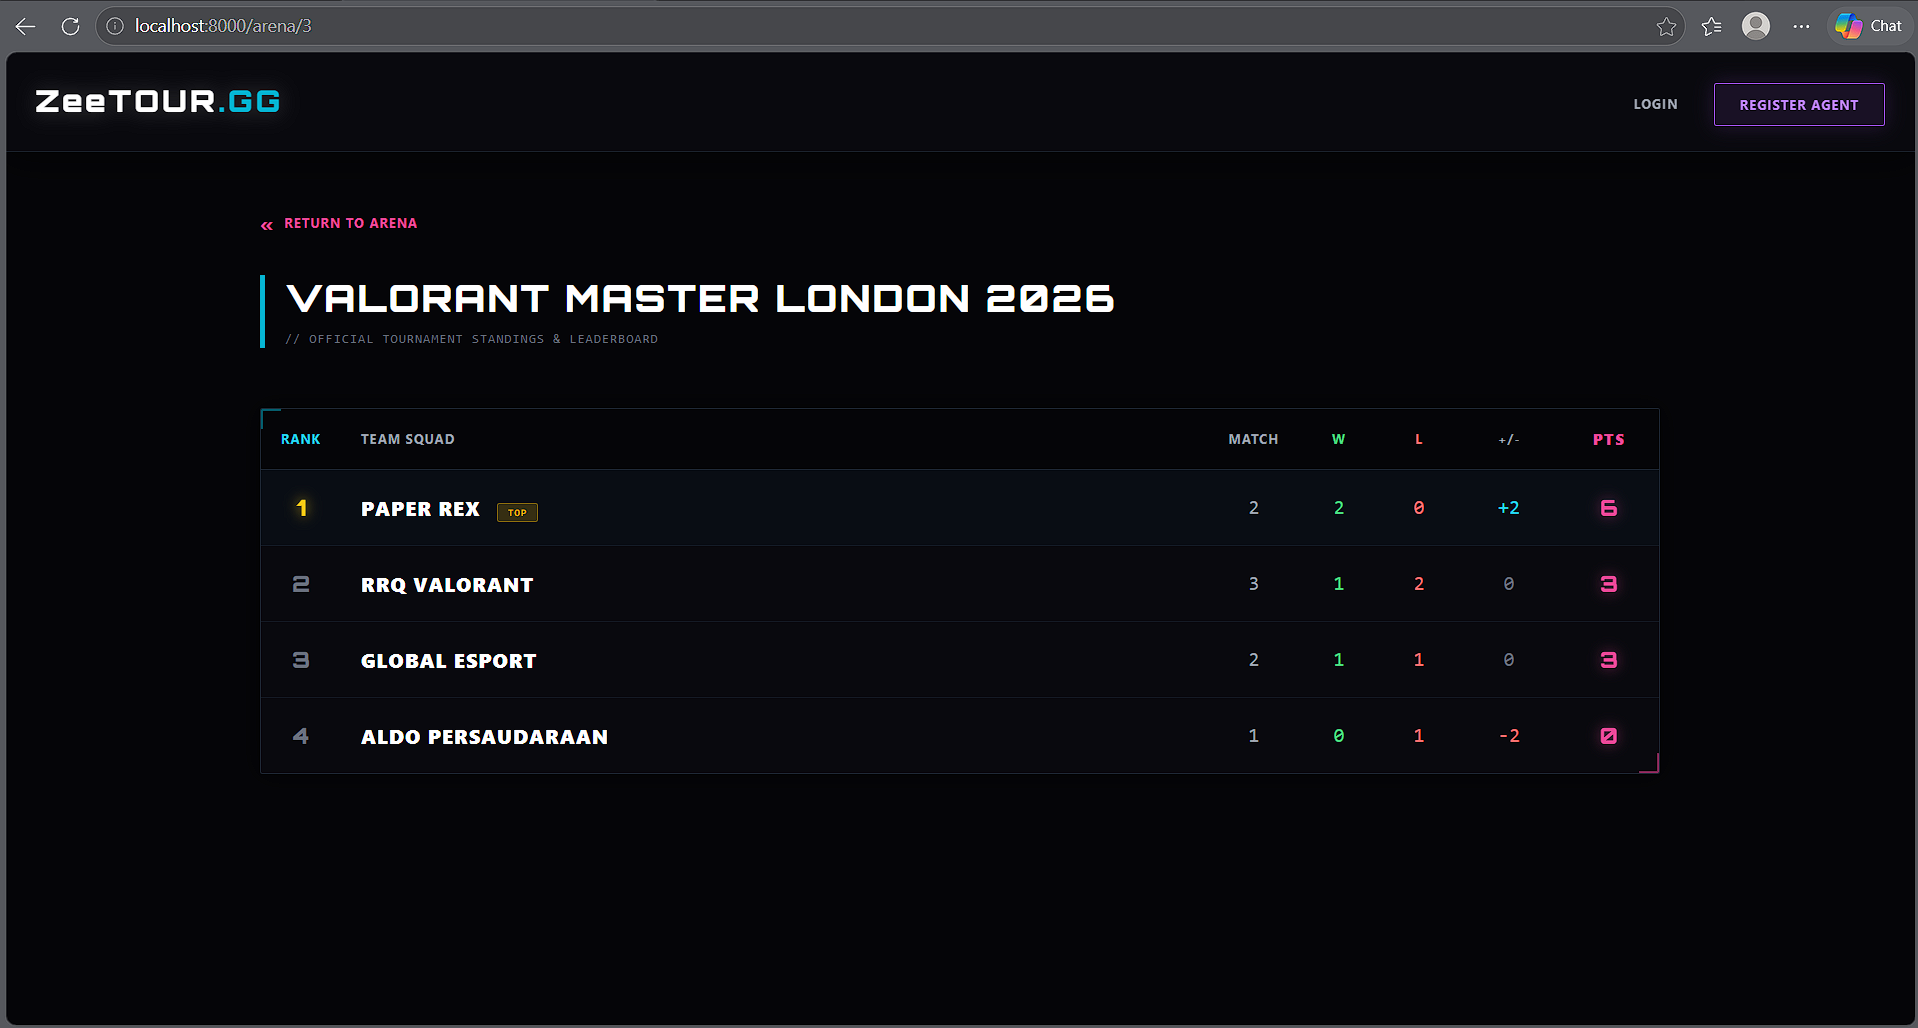
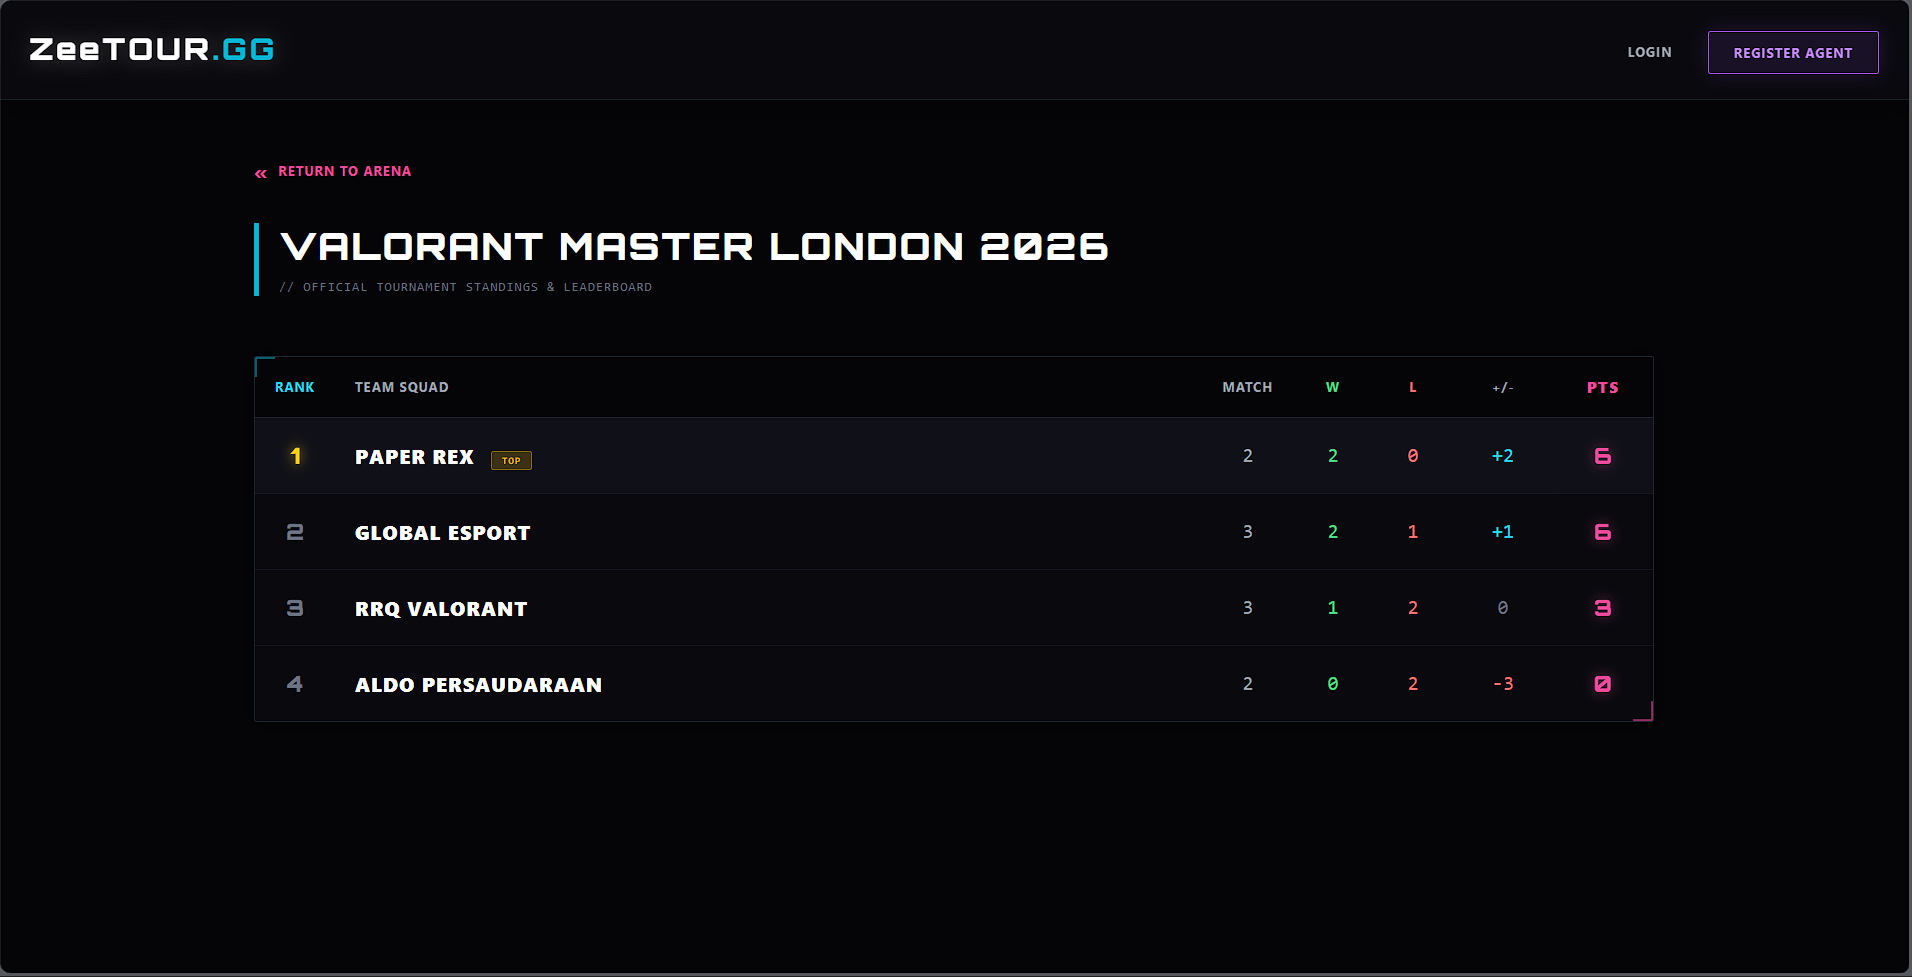
penyempurnaan

diff --git a/README.md b/README.md
@@ -1,4 +1,4 @@
-# ⚡ ZeeTOUR.GG - Esports Tournament Management System
+# ⚡ ZeETOUR.GG - Esports Tournament Management System
 
 [![Laravel Version](https://img.shields.io/badge/Laravel-v12.x-red.svg)](https://laravel.com)
 [![PHP Version](https://img.shields.io/badge/PHP-v8.2-blue.svg)](https://php.net)
@@ -27,7 +27,7 @@ Fitur utama yang dapat diakses publik, menonjolkan kalkulasi otomatis dan intera
 
 ---
 
-### 2. Captain HQ (User Dashboard)
+### 2. Captain HQ (User Dashboard) & Public Roster
 Ruang kendali khusus bagi kapten tim untuk mengelola skuad dan mendaftarkan agen ke dalam turnamen.
 
 | My Team Overview | Roster Management |
@@ -67,7 +67,7 @@ Aplikasi ini menerapkan logika pemrograman terstruktur:
 - **Backend:** PHP 8.2 & Laravel 12.x
 - **Frontend:** Tailwind CSS, Vanilla JavaScript, SweetAlert2
 - **Database:** MySQL
-- **Fonts:** Orbitron & Sans-serif
+- **Fonts:** Orbitron, Sans-serif & Rajdhani
 
 ---
 
